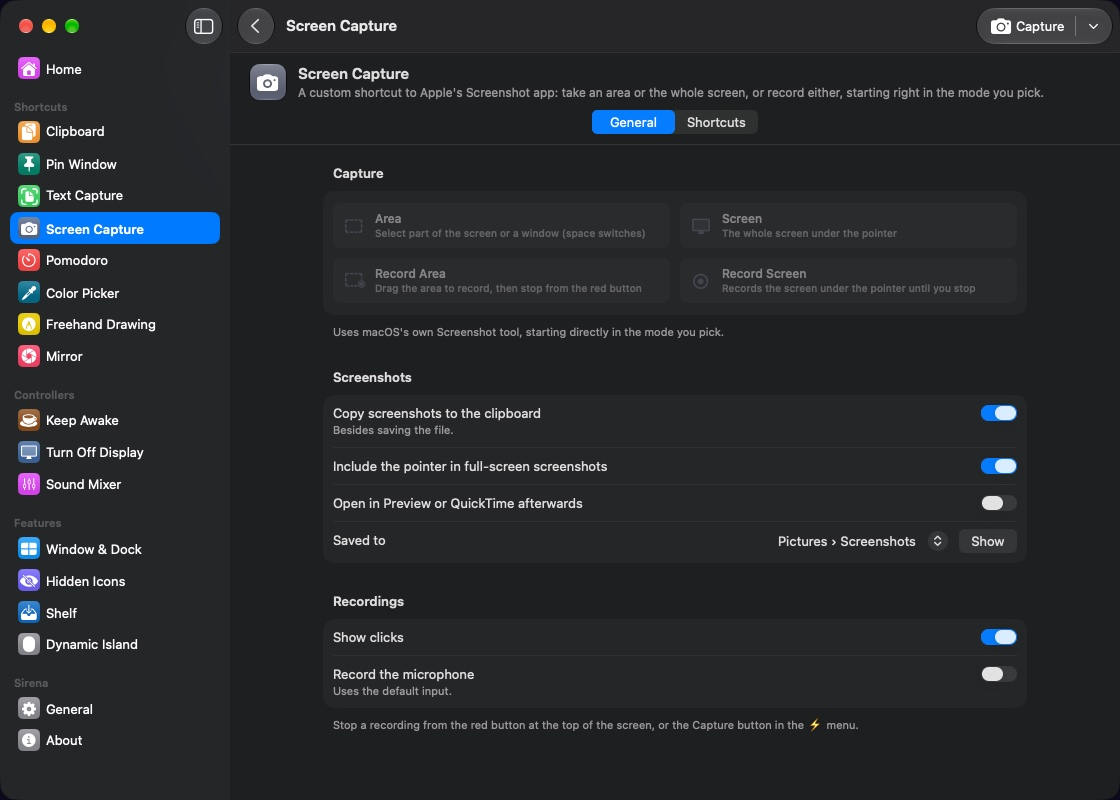
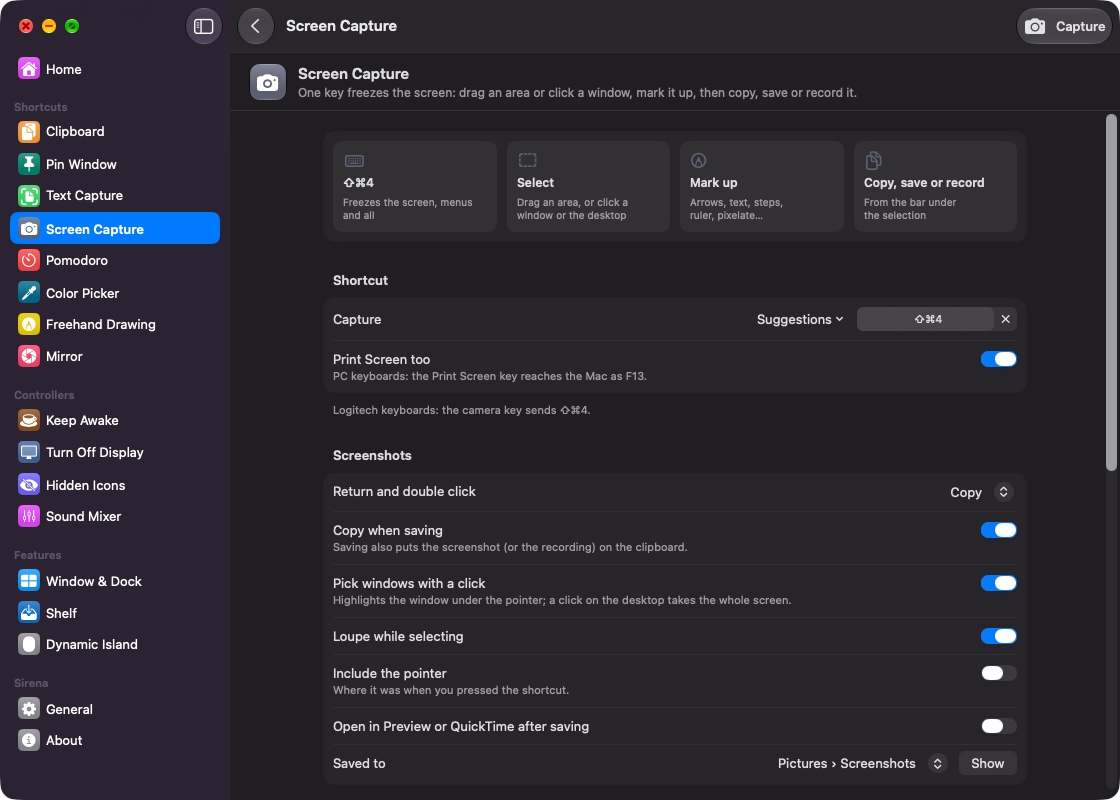
Sirena 0.8.0: appcast and download, the new screen capture on the page
- Appcast item and download link for 0.8.0.
- Captura de tela: the menu's capture panel is gone (Capturar opens the
  selection), so its shot leaves the menu grid (three panels now); the page
  tab gets a new shot of the single Screen Capture page, a new alt text and
  caption, and the list mentions the camera key, ⇧⌘4, Print Screen and the
  ruler. Translations follow.

diff --git a/sirena/strings.js b/sirena/strings.js
@@ -16,14 +16,13 @@ window.WITCH_STRINGS = Object.freeze({
   "ícone na barra de menus": ["menu bar icon", "icono en la barra de menús", "значок в строке меню"],
   "Barra de menus": ["Menu bar", "Barra de menús", "Строка меню"],
   "Tudo a um clique do orbe.": ["Everything one click from the orb.", "Todo a un clic del orbe.", "Всё в одном щелчке от сферы."],
-  "O ícone do Sirena abre um menu com os atalhos em cima e os controladores embaixo. Alguns atalhos se abrem ali mesmo: as últimas cópias, o timer de foco e os modos de captura de tela.": ["Sirena's icon opens a menu with the shortcuts on top and the controllers below. Some shortcuts open right there: your latest copies, the focus timer and the screenshot modes.", "El icono de Sirena abre un menú con los atajos arriba y los controladores abajo. Algunos atajos se abren ahí mismo: las últimas copias, el temporizador de enfoque y los modos de captura de pantalla.", "Значок Sirena открывает меню: сверху быстрые действия, снизу переключатели. Некоторые действия раскрываются прямо там: последние скопированные записи, таймер фокусировки и режимы снимков экрана."],
+  "O ícone do Sirena abre um menu com os atalhos em cima e os controladores embaixo. Alguns atalhos se abrem ali mesmo, como as últimas cópias e o timer de foco.": ["Sirena's icon opens a menu with the shortcuts on top and the controllers below. Some shortcuts open right there, like your latest copies and the focus timer.", "El icono de Sirena abre un menú con los atajos arriba y los controladores abajo. Algunos atajos se abren ahí mismo, como las últimas copias y el temporizador de enfoque.", "Значок Sirena открывает меню: сверху быстрые действия, снизу переключатели. Некоторые действия раскрываются прямо там, например последние скопированные записи и таймер фокусировки."],
   "Menu do Sirena com atalhos, Manter Tela Ligada, Desligar Tela e os recursos": ["Sirena's menu with shortcuts, Keep Display On, Turn Off Display and the features", "El menú de Sirena con atajos, Mantener pantalla encendida, Apagar pantalla y las funciones", "Меню Sirena с быстрыми действиями, «Не выключать экран», «Выключить экран» и функциями"],
   "Atalhos e controladores": ["Shortcuts and controllers", "Atajos y controladores", "Быстрые действия и переключатели"],
   "Últimas cópias do histórico dentro do menu": ["Latest copies from the history inside the menu", "Últimas copias del historial dentro del menú", "Последние записи из истории копирования прямо в меню"],
   "Últimas cópias": ["Latest copies", "Últimas copias", "Последнее скопированное"],
   "Timer de foco dentro do menu, com 15, 25, 45 e 60 minutos": ["Focus timer inside the menu, with 15, 25, 45 and 60 minutes", "Temporizador de enfoque dentro del menú, con 15, 25, 45 y 60 minutos", "Таймер фокусировки в меню: 15, 25, 45 и 60 минут"],
   "Foco": ["Focus", "Enfoque", "Фокус"],
-  "Modos de captura de tela dentro do menu: área, tela, gravar área e gravar tela": ["Screenshot modes inside the menu: area, screen, record area and record screen", "Modos de captura de pantalla dentro del menú: área, pantalla, grabar área y grabar pantalla", "Режимы снимков экрана в меню: область, весь экран, запись области и запись экрана"],
   "Captura de tela": ["Screen capture", "Captura de pantalla", "Снимок экрана"],
   "No Início, escolha o que aparece no menu e arraste os cartões para mudar a ordem. ⌃⌥S abre a janela de qualquer app.": ["On Home, choose what the menu shows and drag the cards to change the order. ⌃⌥S opens the window from any app.", "En Inicio, elige lo que muestra el menú y arrastra las tarjetas para cambiar el orden. ⌃⌥S abre la ventana desde cualquier app.", "На экране «Главная» выберите, что показывать в меню, и перетащите карточки, чтобы изменить порядок. ⌃⌥S открывает окно из любой программы."],
   "Atalhos": ["Shortcuts", "Atajos", "Быстрые действия"],
@@ -35,8 +34,8 @@ window.WITCH_STRINGS = Object.freeze({
   "Espelho": ["Mirror", "Espejo", "Зеркало"],
   "Página Área de transferência: itens fixados e recentes, com o app de origem e quando foram copiados": ["Clipboard page: pinned and recent items, with the source app and when they were copied", "Página Portapapeles: elementos fijados y recientes, con la app de origen y cuándo se copiaron", "Страница «Буфер обмена»: закреплённые и недавние записи с программой-источником и временем копирования"],
   "Histórico: tudo o que você copia, com busca, itens fixados e o app de onde veio.": ["History: everything you copy, with search, pinned items and the app it came from.", "Historial: todo lo que copias, con búsqueda, elementos fijados y la app de donde vino.", "История: всё, что вы копируете, — с поиском, закреплёнными записями и программой-источником."],
-  "Página Captura de tela: área, tela inteira, gravar área e gravar tela, com as opções de salvar": ["Screen Capture page: area, full screen, record area and record screen, with the saving options", "Página Captura de pantalla: área, pantalla completa, grabar área y grabar pantalla, con las opciones de guardado", "Страница «Снимок экрана»: область, весь экран, запись области и запись экрана, а также параметры сохранения"],
-  "Captura de tela: um atalho seu para a ferramenta de Captura de Tela da Apple, já no modo escolhido.": ["Screen capture: your own shortcut to Apple's Screenshot tool, already in the mode you picked.", "Captura de pantalla: tu propio atajo a la herramienta Captura de pantalla de Apple, ya en el modo que elegiste.", "Снимок экрана: ваше собственное сочетание клавиш для «Снимка экрана» от Apple — сразу в выбранном режиме."],
+  "Página Captura de tela: o atalho com sugestões, Print Screen e as opções das capturas": ["Screen Capture page: the shortcut with suggestions, Print Screen and the screenshot options", "Página Captura de pantalla: el atajo con sugerencias, Print Screen y las opciones de las capturas", "Страница «Снимок экрана»: сочетание клавиш с подсказками, Print Screen и параметры снимков"],
+  "Captura de tela: uma tecla congela a tela. Arraste uma área ou clique numa janela, marque com setas, texto, régua ou pixelado, e copie, salve ou grave.": ["Screen capture: one key freezes the screen. Drag an area or click a window, mark it up with arrows, text, a ruler or pixelation, then copy, save or record.", "Captura de pantalla: una tecla congela la pantalla. Arrastra un área o haz clic en una ventana, márcala con flechas, texto, regla o pixelado, y copia, guarda o graba.", "Снимок экрана: одна клавиша замораживает экран. Выделите область или щёлкните окно, добавьте стрелки, текст, линейку или пикселизацию, затем скопируйте, сохраните или запишите."],
   "Ajustes do Pomodoro: durações, fluxo, alertas e meta": ["Pomodoro settings: durations, flow, alerts and goal", "Ajustes del Pomodoro: duraciones, flujo, alertas y meta", "Настройки Pomodoro: длительность, порядок, оповещения и цель"],
   "Pomodoro: sessões de foco, pausas curtas e longas e a contagem na barra de menus.": ["Pomodoro: focus sessions, short and long breaks and the countdown in the menu bar.", "Pomodoro: sesiones de enfoque, pausas cortas y largas y la cuenta atrás en la barra de menús.", "Pomodoro: сессии фокусировки, короткие и длинные перерывы и обратный отсчёт в строке меню."],
   "Página Desenho livre: pincel, cores, espessura, modo de desenho e captura": ["Freehand Drawing page: brush, colors, width, drawing mode and screenshot", "Página Dibujo libre: pincel, colores, grosor, modo de dibujo y captura", "Страница «Рисование»: кисть, цвета, толщина, режим рисования и снимок"],
@@ -50,7 +49,7 @@ window.WITCH_STRINGS = Object.freeze({
   "Seletor de cores": ["Color picker", "Selector de colores", "Пипетка"],
   "com histórico, paletas e vários formatos.": ["with history, palettes and several formats.", "con historial, paletas y varios formatos.", "с историей, палитрами и разными форматами."],
   "Capturas": ["Screenshots", "Capturas", "Снимки экрана"],
-  "copiadas e salvas por padrão, na Mesa ou em Imagens › Capturas de Tela.": ["copied and saved by default, to the Desktop or Pictures › Screenshots.", "copiadas y guardadas por defecto, en el Escritorio o en Imágenes › Capturas de pantalla.", "по умолчанию копируются и сохраняются — на Рабочий стол или в «Изображения › Снимки экрана»."],
+  "pela tecla da câmera dos teclados Logitech, por ⇧⌘4 ou Print Screen, com régua para conferir alinhamentos pixel a pixel.": ["from the camera key on Logitech keyboards, ⇧⌘4 or Print Screen, with a ruler to check alignment pixel by pixel.", "con la tecla de la cámara de los teclados Logitech, ⇧⌘4 o Print Screen, con regla para revisar alineaciones píxel a píxel.", "клавишей с камерой на клавиатурах Logitech, ⇧⌘4 или Print Screen, с линейкой для проверки выравнивания до пикселя."],
   "Controladores": ["Controllers", "Controladores", "Переключатели"],
   "Ajustes que mudam o Mac agora.": ["Settings that change your Mac right now.", "Ajustes que cambian tu Mac ahora mismo.", "Настройки, которые меняют Mac прямо сейчас."],
   "Os controladores ficam no menu e se ajustam ali mesmo, sem abrir janela nenhuma.": ["The controllers live in the menu and are adjusted right there, without opening any window.", "Los controladores viven en el menú y se ajustan ahí mismo, sin abrir ninguna ventana.", "Переключатели живут в меню и настраиваются прямо там, без открытия каких-либо окон."],

diff --git a/sirena/index.html b/sirena/index.html
@@ -84,13 +84,12 @@
     <div class="section-head">
       <p class="wu-kicker">Barra de menus</p>
       <h2>Tudo a um clique do orbe.</h2>
-      <p>O ícone do Sirena abre um menu com os atalhos em cima e os controladores embaixo. Alguns atalhos se abrem ali mesmo: as últimas cópias, o timer de foco e os modos de captura de tela.</p>
+      <p>O ícone do Sirena abre um menu com os atalhos em cima e os controladores embaixo. Alguns atalhos se abrem ali mesmo, como as últimas cópias e o timer de foco.</p>
     </div>
     <div class="wu-panels">
       <figure><button class="shot" type="button"><img src="../assets/shots/sirena/panel.jpg?v=202611141200" alt="Menu do Sirena com atalhos, Manter Tela Ligada, Desligar Tela e Ícones do menu" loading="lazy" width="370" height="486"></button><figcaption>Atalhos e controladores</figcaption></figure>
       <figure><button class="shot" type="button"><img src="../assets/shots/sirena/panel-history.jpg?v=202611141200" alt="Últimas cópias do histórico dentro do menu" loading="lazy" width="370" height="905"></button><figcaption>Últimas cópias</figcaption></figure>
       <figure><button class="shot" type="button"><img src="../assets/shots/sirena/panel-focus.jpg?v=202611141200" alt="Timer de foco dentro do menu, com 15, 25, 45 e 60 minutos" loading="lazy" width="370" height="655"></button><figcaption>Foco</figcaption></figure>
-      <figure><button class="shot" type="button"><img src="../assets/shots/sirena/panel-capture.jpg?v=202611141200" alt="Modos de captura de tela dentro do menu: área, tela, gravar área e gravar tela" loading="lazy" width="370" height="588"></button><figcaption>Captura de tela</figcaption></figure>
     </div>
     <p class="wu-cap">No Início, escolha o que aparece no menu e arraste os cartões para mudar a ordem. ⌃⌥S abre a janela de qualquer app.</p>
   </section>
@@ -111,7 +110,7 @@
         <button type="button" role="tab" id="t-mirror" aria-controls="p-mirror">Espelho</button>
       </div>
       <div class="wu-panel" role="tabpanel" id="p-clip" aria-labelledby="t-clip"><figure><button class="shot" type="button"><img src="../assets/shots/sirena/clipboard.jpg?v=202610271200" alt="Página Área de transferência: itens fixados e recentes, com o app de origem e quando foram copiados" loading="lazy" width="1120" height="800"></button><figcaption class="wu-cap">Histórico: tudo o que você copia, com busca, itens fixados e o app de onde veio.</figcaption></figure></div>
-      <div class="wu-panel" role="tabpanel" id="p-cap" aria-labelledby="t-cap" hidden><figure><button class="shot" type="button"><img src="../assets/shots/sirena/screen-capture.jpg?v=202610271200" alt="Página Captura de tela: área, tela inteira, gravar área e gravar tela, com as opções de salvar" loading="lazy" width="1120" height="800"></button><figcaption class="wu-cap">Captura de tela: um atalho seu para a ferramenta de Captura de Tela da Apple, já no modo escolhido.</figcaption></figure></div>
+      <div class="wu-panel" role="tabpanel" id="p-cap" aria-labelledby="t-cap" hidden><figure><button class="shot" type="button"><img src="../assets/shots/sirena/screen-capture.jpg?v=202611211200" alt="Página Captura de tela: o atalho com sugestões, Print Screen e as opções das capturas" loading="lazy" width="1120" height="800"></button><figcaption class="wu-cap">Captura de tela: uma tecla congela a tela. Arraste uma área ou clique numa janela, marque com setas, texto, régua ou pixelado, e copie, salve ou grave.</figcaption></figure></div>
       <div class="wu-panel" role="tabpanel" id="p-pomo" aria-labelledby="t-pomo" hidden><figure><button class="shot" type="button"><img src="../assets/shots/sirena/pomodoro.jpg?v=202610271200" alt="Ajustes do Pomodoro: durações, fluxo, alertas e meta" loading="lazy" width="1120" height="800"></button><figcaption class="wu-cap">Pomodoro: sessões de foco, pausas curtas e longas e a contagem na barra de menus.</figcaption></figure></div>
       <div class="wu-panel" role="tabpanel" id="p-draw" aria-labelledby="t-draw" hidden><figure><button class="shot" type="button"><img src="../assets/shots/sirena/drawing.jpg?v=202610271200" alt="Página Desenho livre: pincel, cores, espessura, modo de desenho e captura" loading="lazy" width="1120" height="800"></button><figcaption class="wu-cap">Desenho livre: desenhe, destaque e aponte por cima da tela, e capture a área com o desenho.</figcaption></figure></div>
       <div class="wu-panel" role="tabpanel" id="p-mirror" aria-labelledby="t-mirror" hidden><figure><button class="shot" type="button"><img src="../assets/shots/sirena/mirror.jpg?v=202610271200" alt="Página Espelho: tamanho, formato, zoom, câmera e fotos" loading="lazy" width="1120" height="800"></button><figcaption class="wu-cap">Espelho: uma olhada rápida na câmera antes de uma chamada, que fecha sozinha.</figcaption></figure></div>
@@ -120,7 +119,7 @@
       <li><b>Capturar texto</b> de qualquer parte da tela, até de imagens e vídeos, com QR codes e códigos de barras.</li>
       <li><b>Fixar janela</b> acima de todas as outras, com transparência ajustável.</li>
       <li><b>Seletor de cores</b> com histórico, paletas e vários formatos.</li>
-      <li><b>Capturas</b> copiadas e salvas por padrão, na Mesa ou em Imagens › Capturas de Tela.</li>
+      <li><b>Capturas</b> pela tecla da câmera dos teclados Logitech, por ⇧⌘4 ou Print Screen, com régua para conferir alinhamentos pixel a pixel.</li>
     </ul>
   </section>
 

diff --git a/apps.js b/apps.js
@@ -15,7 +15,7 @@ window.WITCH_APPS = Object.freeze({
   hypervideo:   Object.freeze({ repo: 'hypervideo-converter', tag: 'v1.0.1', file: 'HyperVideo-1.0.1.dmg', published: true, app: 'HyperVideo Converter.app' }),
   bettercraft:  Object.freeze({ repo: 'bettercraft-launcher', tag: 'v0.6.6', file: 'BetterCraftLauncher-0.6.6.dmg', published: true, app: 'BetterCraft Launcher.app' }),
   aitracker:    Object.freeze({ repo: 'Aitracker',     tag: 'v1.0.1',        file: 'Aitracker-1.0.1.dmg',    published: true, app: 'Aitracker.app' }),
-  sirena:       Object.freeze({ repo: 'Sirena',        tag: 'v0.7.1',        file: 'Sirena-0.7.1.dmg',       published: true, app: 'Sirena.app' }),
+  sirena:       Object.freeze({ repo: 'Sirena',        tag: 'v0.8.0',        file: 'Sirena-0.8.0.dmg',       published: true, app: 'Sirena.app' }),
   rubbishnotes: Object.freeze({ repo: 'rubbish-notes', tag: 'v1.2.1',        file: 'RubbishNotes-1.2.1.dmg', published: true, app: 'Rubbish Notes.app' }),
   excaliburforms: Object.freeze({ repo: 'ExcaliburForms', tag: 'v1.0.0',     file: 'ExcaliburForms-1.0.0.dmg', published: true, app: 'ExcaliburForms.app' }),
   wineup:       Object.freeze({ repo: 'wineup-player', tag: 'v1.1.1',      file: 'WineupPlayer-1.1.1.dmg', published: true, app: 'Wineup Player.app' }),

diff --git a/sirena/page.css b/sirena/page.css
@@ -131,7 +131,7 @@ figure{margin:0}
 @media (prefers-reduced-motion:reduce){.wu-panel{animation:none}.wu-skin{transition:none}}
 
 /* Sirena: os painéis do menu da barra de menus lado a lado */
-.wu-panels{display:grid;grid-template-columns:repeat(4,minmax(0,1fr));gap:22px;align-items:start;max-width:1040px;margin:0 auto}
+.wu-panels{display:grid;grid-template-columns:repeat(3,minmax(0,1fr));gap:22px;align-items:start;max-width:790px;margin:0 auto}
 .wu-panels figure .shot{width:100%;border-radius:14px;box-shadow:0 34px 80px -34px #000}
 .wu-panels figcaption{margin-top:10px;font-size:14px;color:var(--muted);text-align:center}
 .wu-banner{max-width:900px;margin:0 auto 40px}
